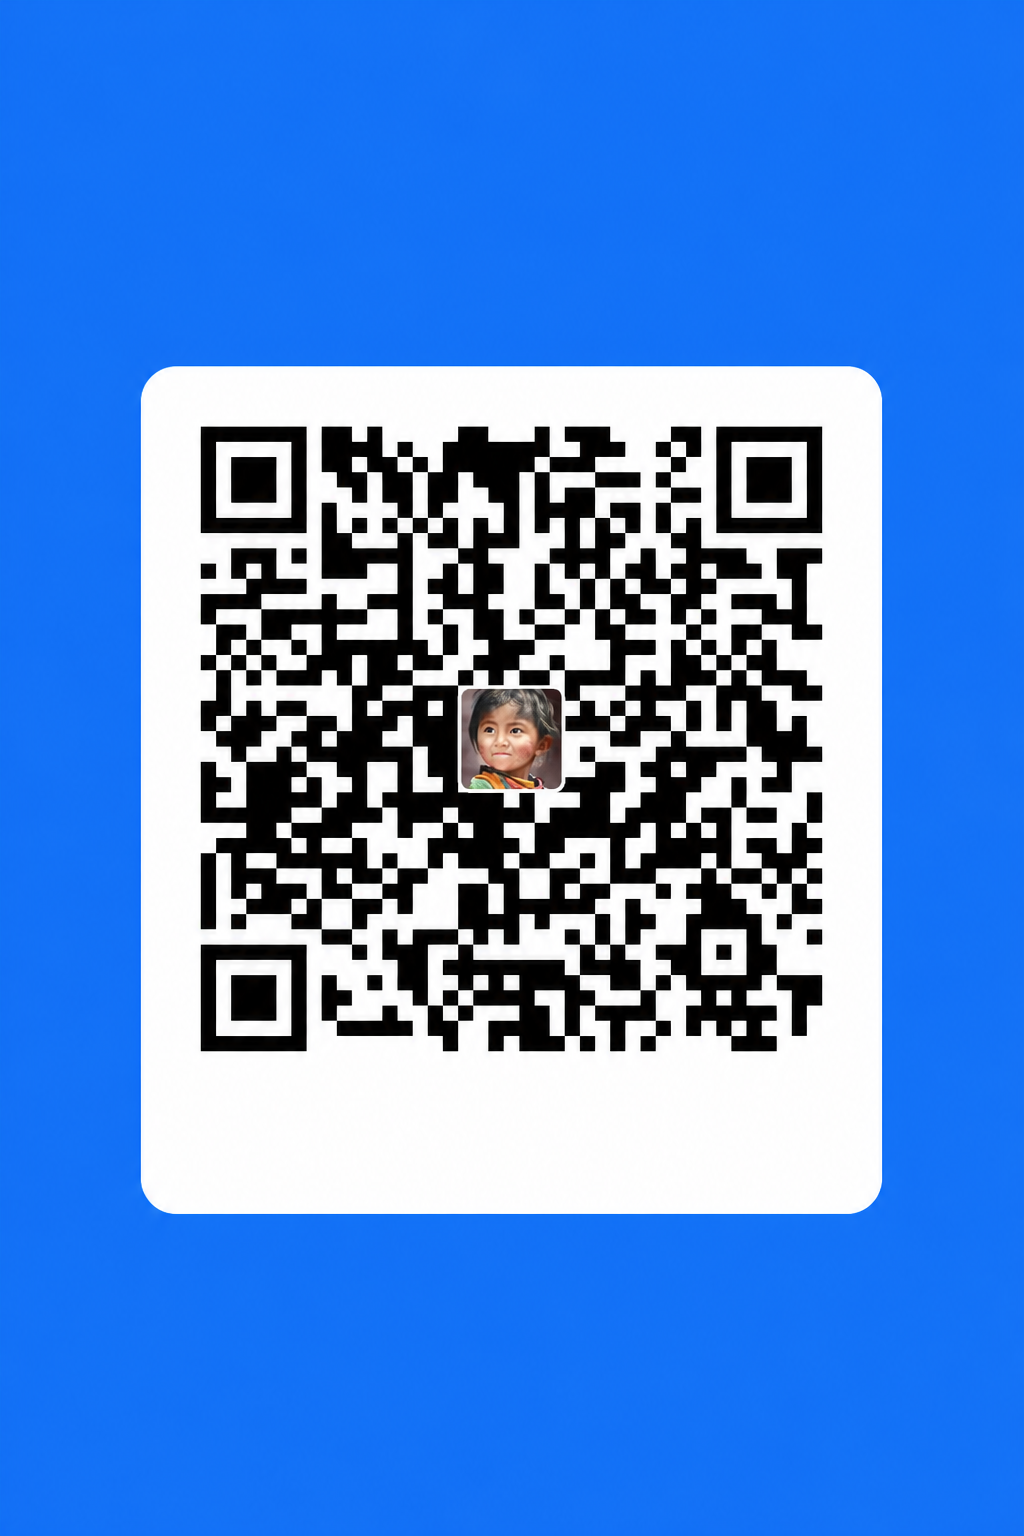
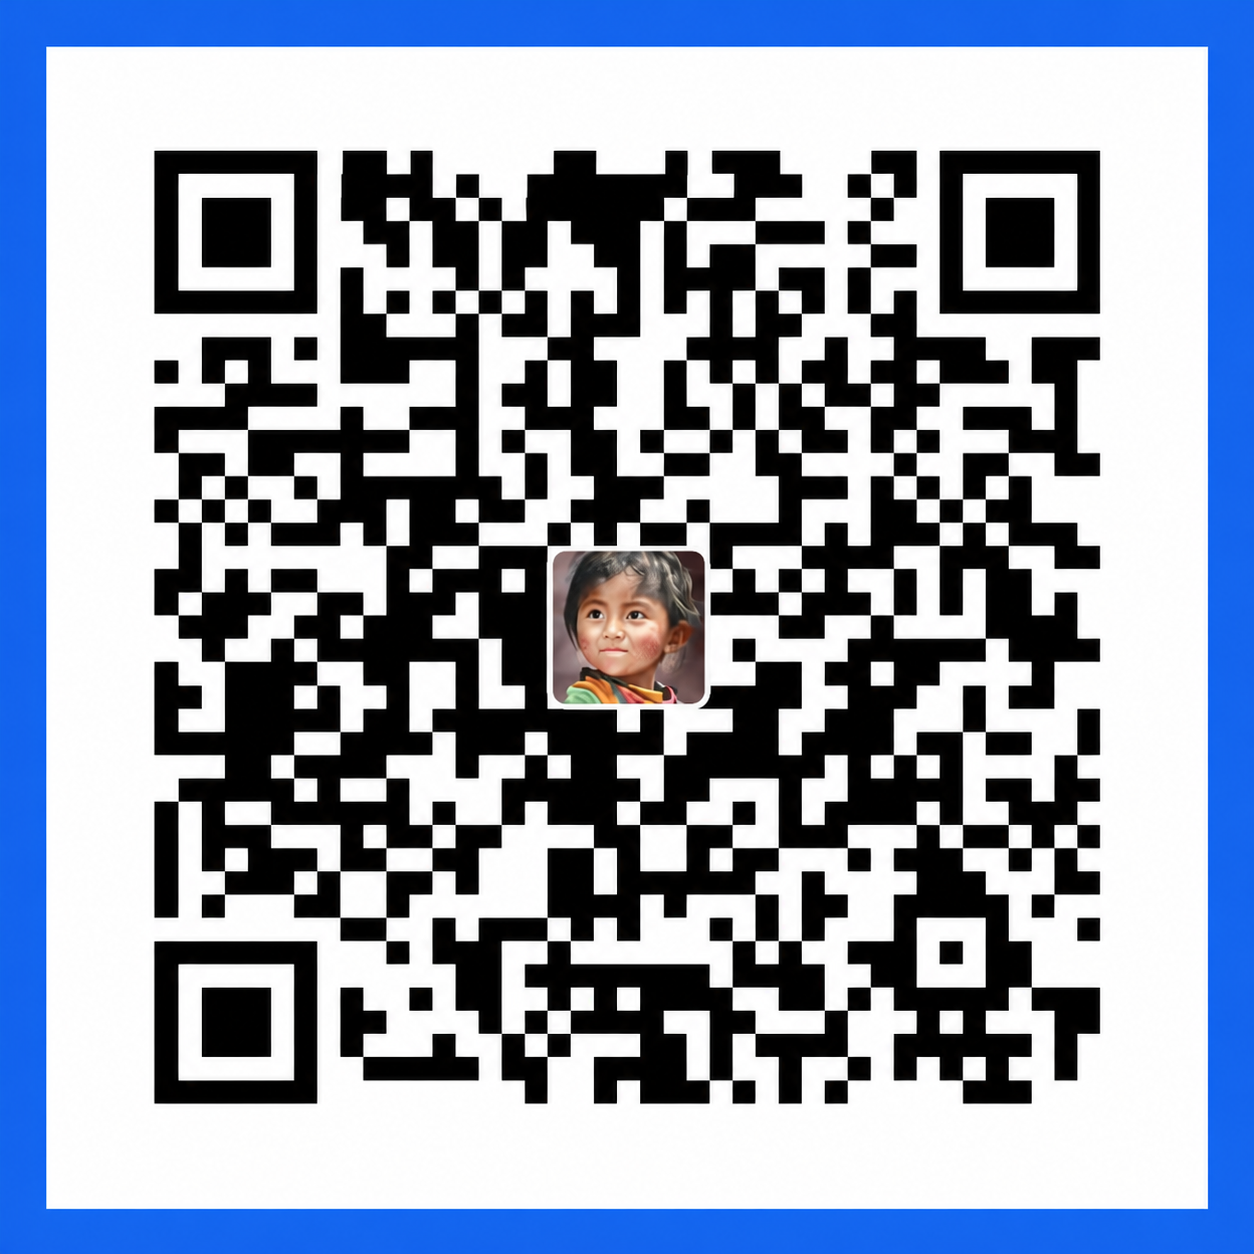
压缩支持二维码留白

diff --git a/static/index.html b/static/index.html
@@ -228,8 +228,8 @@
   .support-close{width:34px;height:34px;padding:0;border-radius:9px;font-size:18px;line-height:1}
   .support-grid{display:grid;grid-template-columns:1fr 1fr;gap:14px;margin-top:20px}
   .support-method{padding:15px;border:1px solid var(--line);border-radius:13px;background:#FAFAFB;text-align:center}
-  .support-method h3{margin:0 0 10px;font-size:13px}.support-method img{display:block;width:100%;height:min(52vh,460px);
-                      object-fit:contain;border-radius:10px;background:#fff}
+  .support-method h3{margin:0 0 10px;font-size:13px}.support-method img{display:block;width:100%;height:auto;
+                      aspect-ratio:1;object-fit:contain;border-radius:10px;background:#fff}
   .support-note{margin:16px 0 0;color:var(--ink-soft);font-size:11.5px;text-align:center}
 
   .section-kicker{margin:0 0 7px;color:var(--primary);font-size:11px;font-weight:750;
